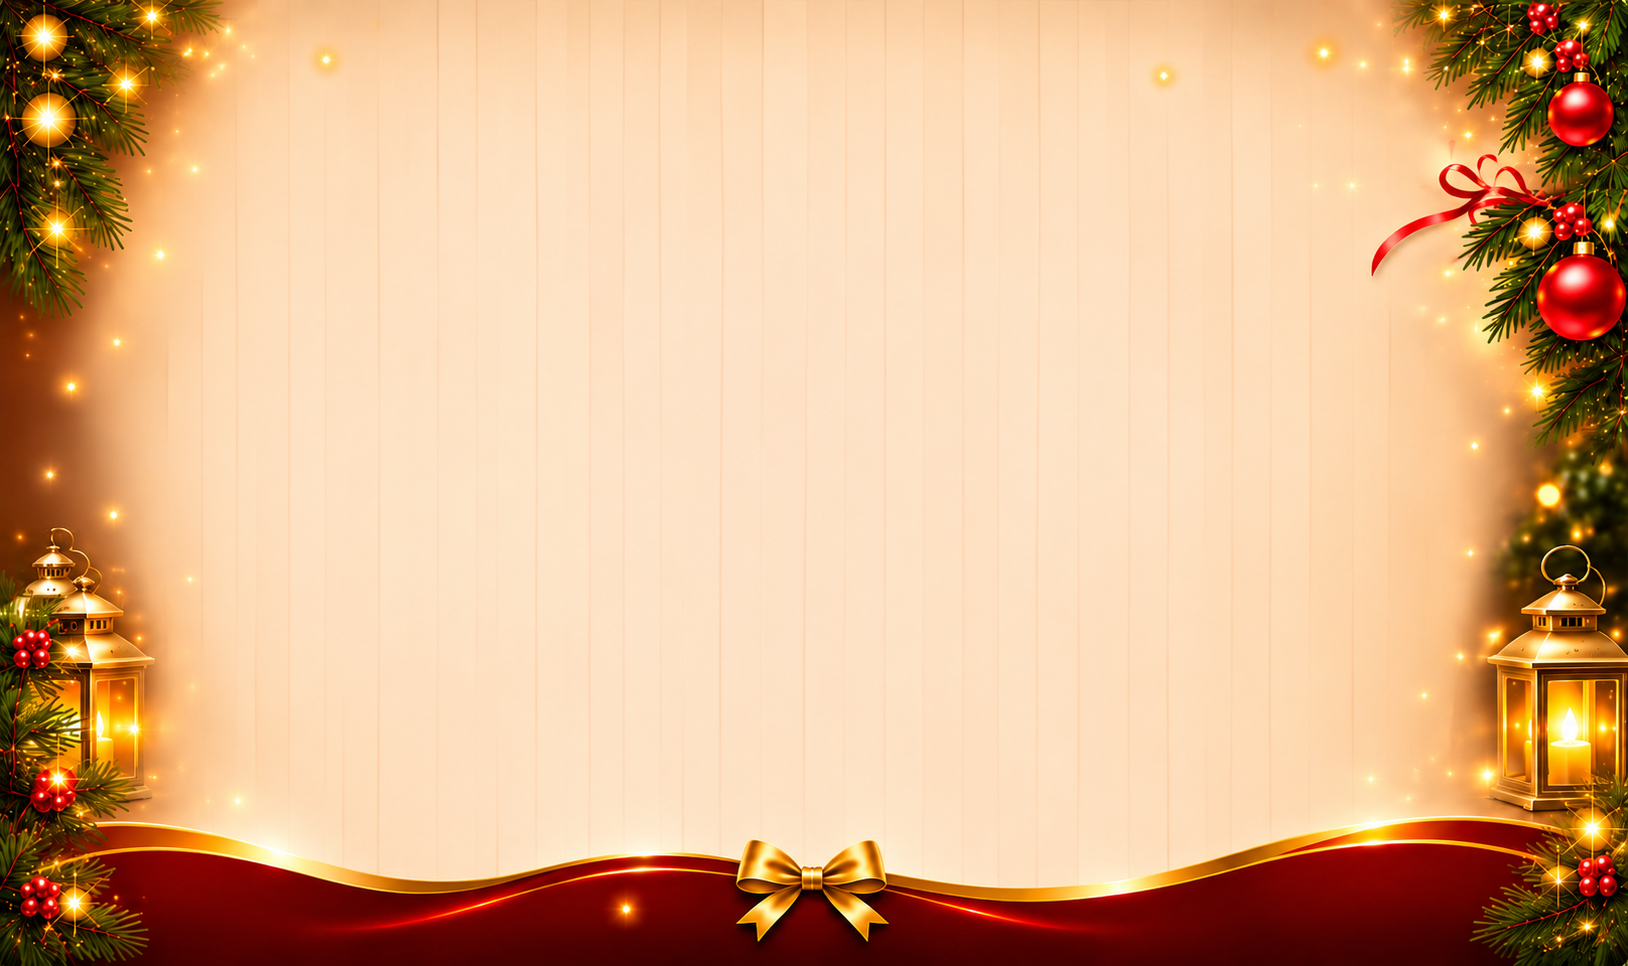
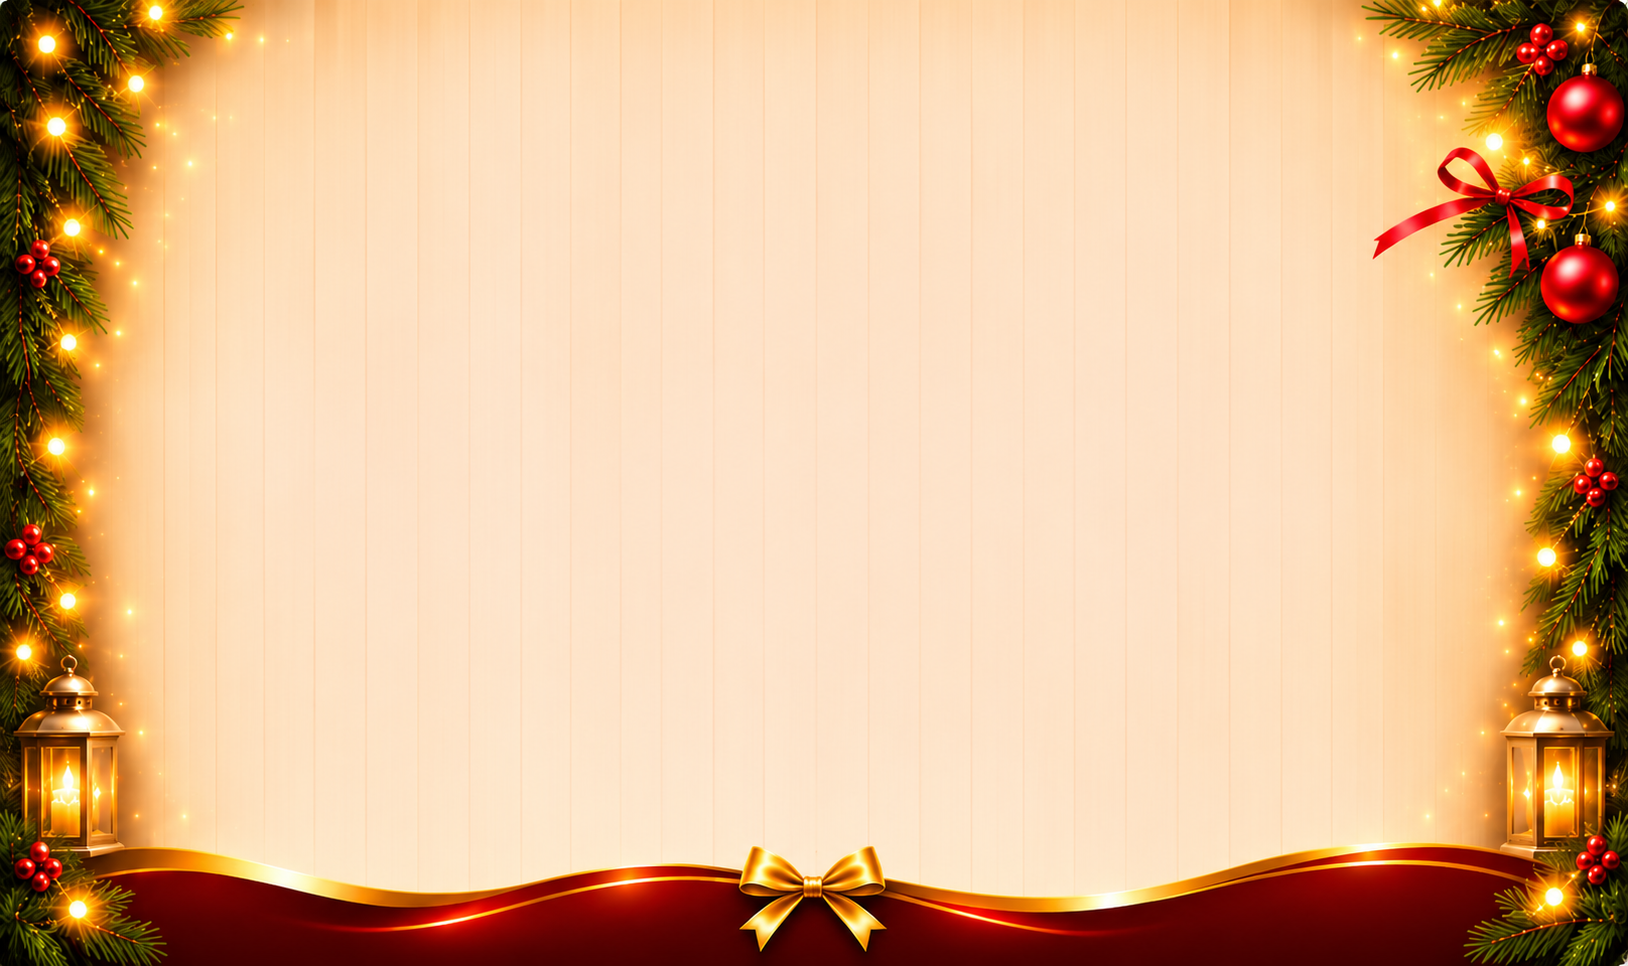
Mantém a proporção das decorações laterais de Natal

diff --git a/public/css/themes.css b/public/css/themes.css
@@ -75,27 +75,37 @@ html[data-theme][data-color-studio] :is(.field,.search,select,textarea,.menu-tog
 html[data-theme][data-color-studio] :is(input,select,textarea,button,a):focus-visible {outline-color:var(--store-text)}
 
 
-/* O PNG aprovado é pintado como uma imagem de borda vertical.
-   O trecho entre os ornamentos absorve a altura variável do conteúdo. */
+/* Topo e rodapé usam o PNG. O recorte intermediário repete na mesma escala. */
 html[data-theme="natal"] body:has(:is(.home-page,.customizer-page)) {
-  --natal-image-top:calc(100vw * 521 / 1628);
-  --natal-image-bottom:calc(100vw * 443 / 1628);
+  --natal-image-top:calc(100vw * 373 / 1628);
+  --natal-image-bottom:calc(100vw * 390 / 1628);
+  --natal-join:calc(100vw * 72 / 1628);
   --natal-page-inset:0px;
   position:relative;
   isolation:isolate;
   background:#ffe1c0;
 }
-html[data-theme="natal"] body:has(:is(.home-page,.customizer-page))::before {
+html[data-theme="natal"] body:has(:is(.home-page,.customizer-page))::before,
+html[data-theme="natal"] body:has(:is(.home-page,.customizer-page))::after {
   content:"";
   position:absolute;
   inset:0 0 var(--natal-page-inset);
-  z-index:-1;
   pointer-events:none;
+}
+html[data-theme="natal"] body:has(:is(.home-page,.customizer-page))::before {
+  z-index:-1;
   border:0 solid transparent;
   border-image-source:url("/img/visual/natal-fundo-aprovado.png");
-  border-image-slice:521 0 443 0 fill;
+  border-image-slice:373 0 390 0;
   border-image-width:var(--natal-image-top) 0 var(--natal-image-bottom) 0;
-  border-image-repeat:stretch;
+  mask-image:linear-gradient(to bottom,
+    #000 var(--natal-image-top),transparent var(--natal-image-top),
+    transparent calc(100% - var(--natal-image-bottom)),
+    #000 calc(100% - var(--natal-image-bottom) + var(--natal-join)));
+}
+html[data-theme="natal"] body:has(:is(.home-page,.customizer-page))::after {
+  z-index:-2;
+  background:url("/img/visual/natal-laterais.webp") center var(--natal-image-top) / 100% auto repeat-y;
 }
 html[data-theme="natal"] .home-page {background-image:none}
 html[data-theme="natal"] body:has(:is(.home-page,.customizer-page)) .site-header {
@@ -147,7 +157,8 @@ html[data-theme="natal"] body:has(:is(.home-page,.customizer-page)) .site-footer
   }
 }
 @media(forced-colors:active) {
-  html[data-theme="natal"] body:has(:is(.home-page,.customizer-page))::before {display:none}
+  html[data-theme="natal"] body:has(:is(.home-page,.customizer-page))::before,
+  html[data-theme="natal"] body:has(:is(.home-page,.customizer-page))::after {display:none}
   html[data-theme="natal"] body:has(:is(.home-page,.customizer-page)),
   html[data-theme="natal"] body:has(:is(.home-page,.customizer-page)) :is(.site-header,.site-footer) {
     background:Canvas;
